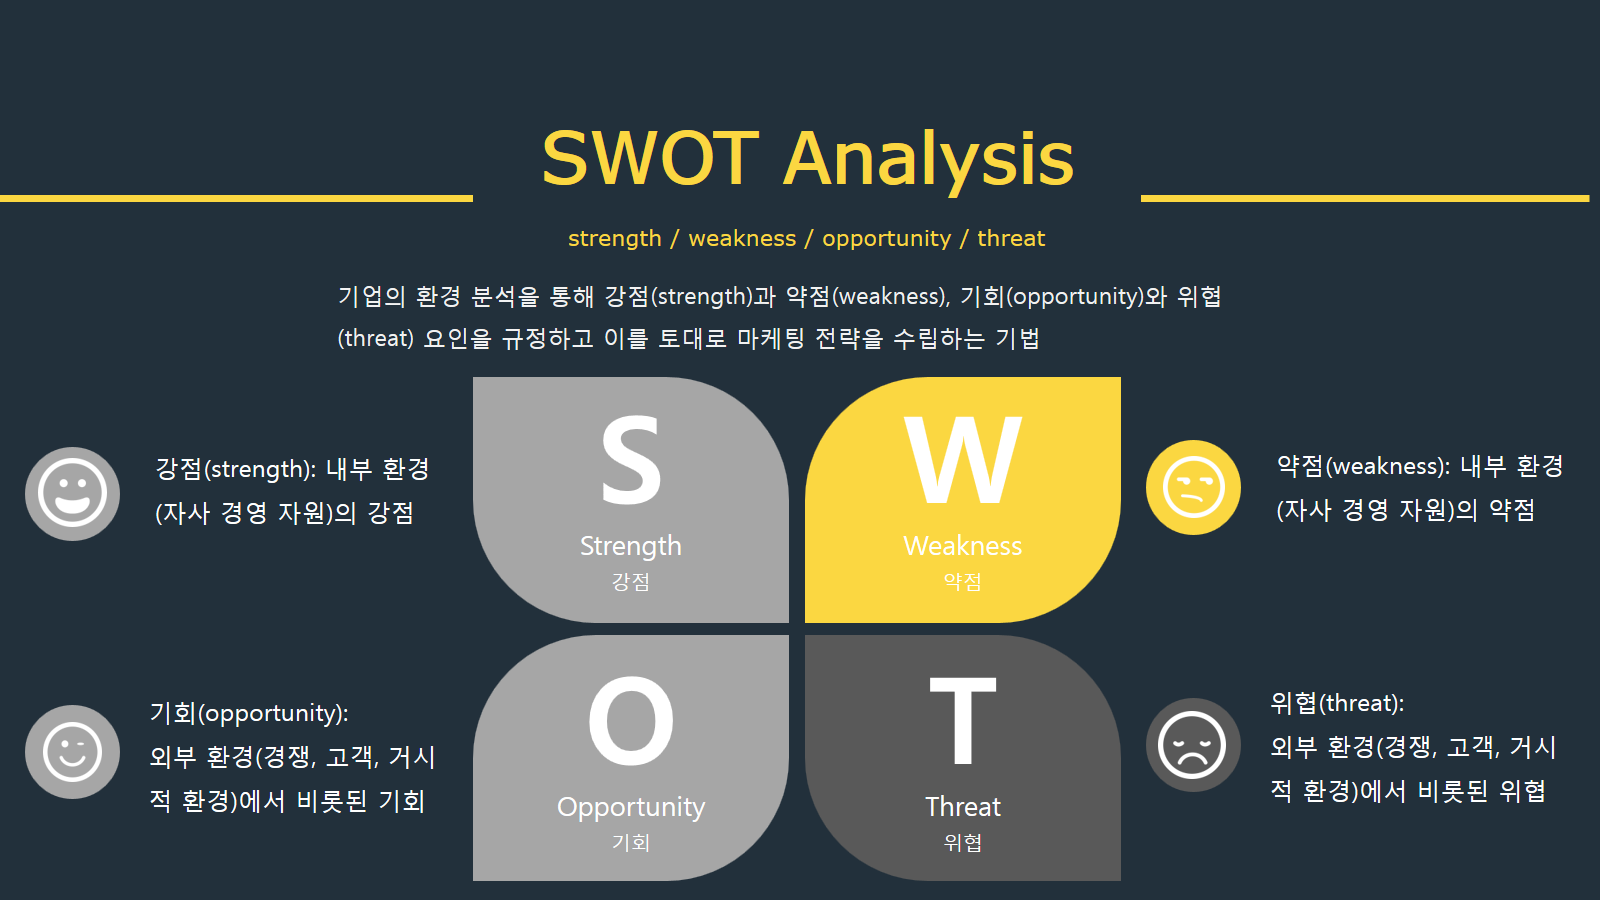
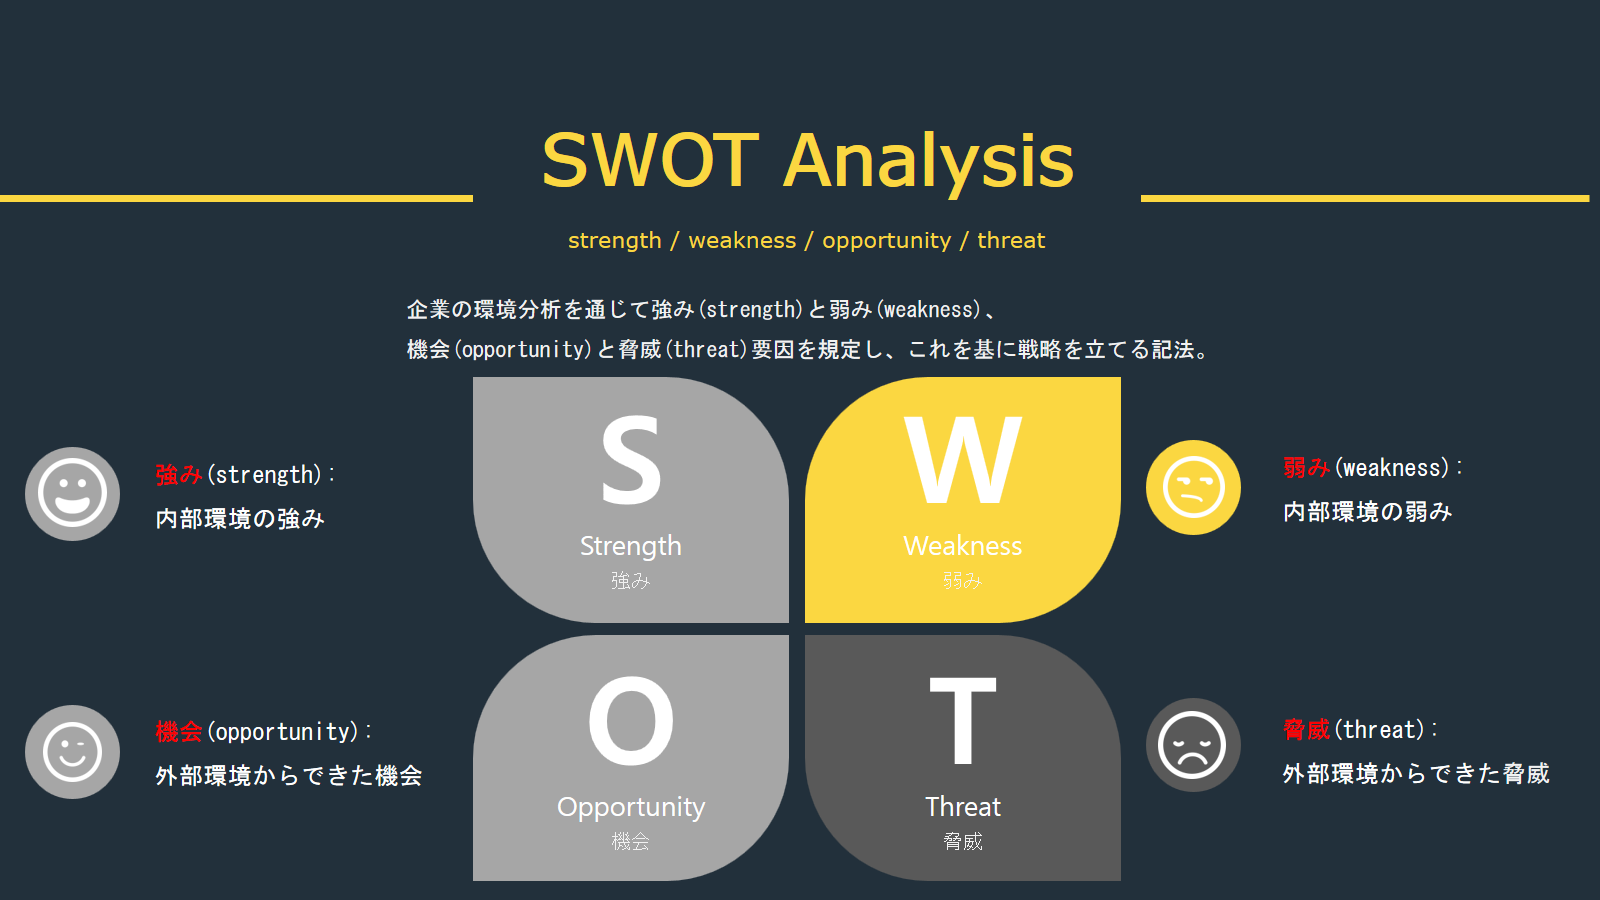
4-30 자기분석 일본어로 수정 완료

diff --git a/src/main/webapp/resources/js/validator.js b/src/main/webapp/resources/js/validator.js
@@ -182,10 +182,13 @@
     }
 
     $.each(this.validators, $.proxy(function (key, validator) {
+    	console.log(key);
+    	console.log(validator);
       var error = null
       if ((getValue($el) || $el.attr('required')) &&
           ($el.attr('data-' + key) !== undefined || key == 'native') &&
           (error = validator.call(this, $el))) {
+    	  
          error = getErrorMessage(key) || error
         !~errors.indexOf(error) && errors.push(error)
       }
@@ -193,14 +196,17 @@
 
     if (!errors.length && getValue($el) && $el.attr('data-remote')) {
       this.defer($el, function () {
+    	  
         var data = {}
         data[$el.attr('name')] = getValue($el)
         $.get($el.attr('data-remote'), data)
           .fail(function (jqXHR, textStatus, error) { 
+        	  
         	  if (error == 'Expectation Failed') {
-        		  errors.push('사용중인 아이디입니다.' || error);
+        		  
+        		  errors.push('もう使っているIDです。' || error);
         	  } else if (error == 'Length Required') {
-        		  errors.push('사용중인 이메일입니다.' || error);
+        		  errors.push('もう使っているメールアドレスです。' || error);
         	  }         	  
         	  
           })
@@ -246,7 +252,7 @@
 
     errors = $('<ul/>')
       .addClass('list-unstyled')
-      .append($.map(errors, function (error) { return $('<li/>')[method](error) }))
+      .append($.map(errors, function (error) {  return $('<li/>')[method](error) }))
 
     $block.data('bs.validator.originalContent') === undefined && $block.data('bs.validator.originalContent', $block.html())
     $block.empty().append(errors)

diff --git a/src/main/java/com/palette/h5/controller/UserinfoController.java b/src/main/java/com/palette/h5/controller/UserinfoController.java
@@ -113,10 +113,12 @@ public class UserinfoController {
 	public void checkId(String id, HttpServletResponse response) {
 		
 		if (userDao.getUserinfoById(id) == null) {
+			System.out.println("ok");
 			response.setStatus(HttpServletResponse.SC_OK);
 			
 		} else {
 			response.setStatus(HttpServletResponse.SC_EXPECTATION_FAILED);
+			System.out.println(id);
 		}
 	}
 	
